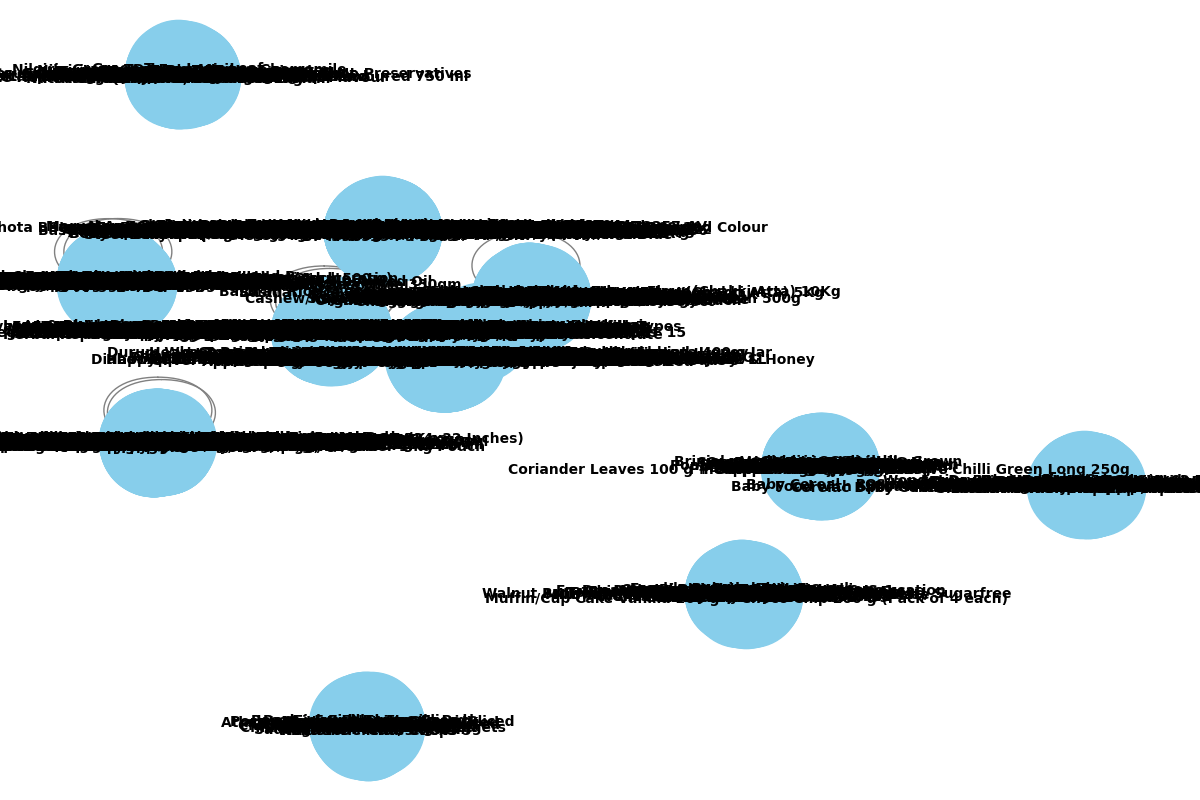
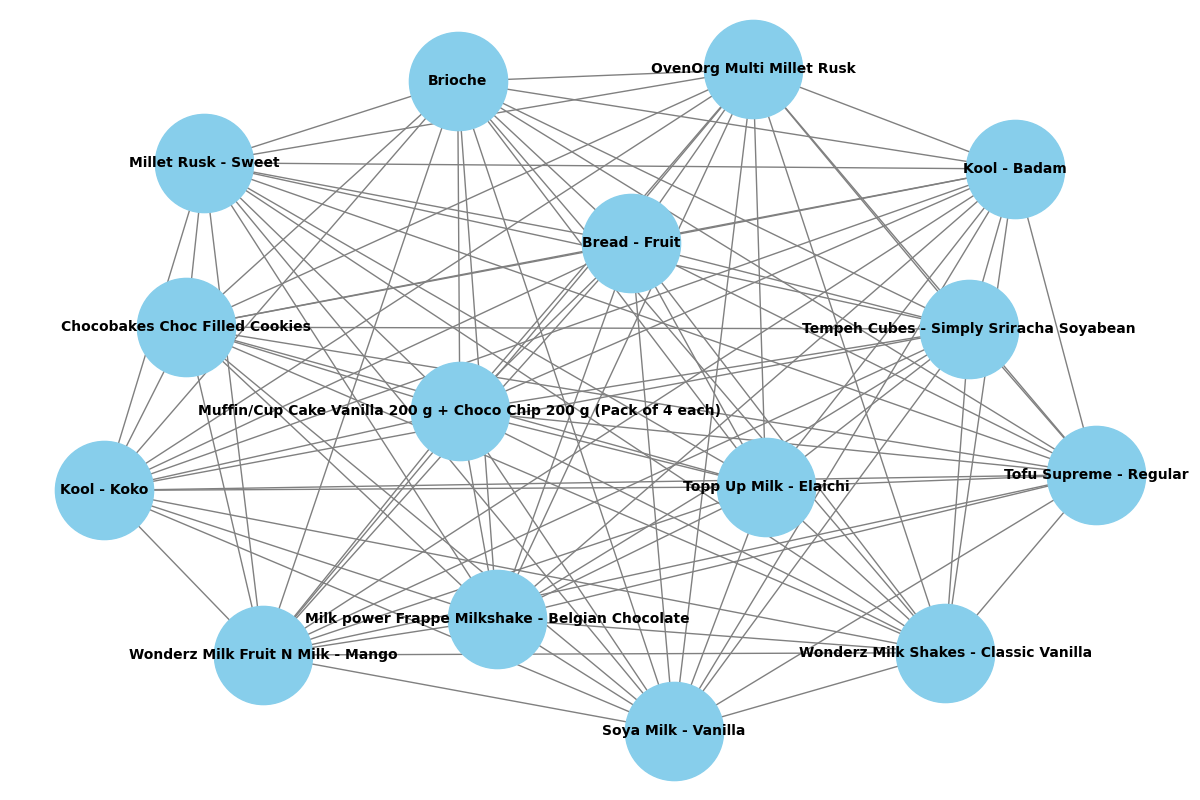
feat: now only the 15 closest nodes are visible

diff --git a/app.py b/app.py
@@ -14,7 +14,7 @@ with open('Products.txt', 'r', encoding='utf-8') as archivo:
             "category": fila['category'],
             "rating": float(fila['rating'])
         })
-def graficar_grafo(grafo, filename='static/graph.png'):
+def graficar_grafo(grafo, producto_ingresado, filename='static/graph.png'):
     G = nx.Graph()
 
     for categoria, productos in grafo.items():
@@ -24,9 +24,16 @@ def graficar_grafo(grafo, filename='static/graph.png'):
                 if producto != otro_producto:
                     G.add_edge(producto['nombre'], otro_producto['nombre'])
 
-    pos = nx.spring_layout(G)
+    # Calculate distances from the input product
+    distances = nx.single_source_shortest_path_length(G, producto_ingresado['nombre'])
+    closest_nodes = sorted(distances, key=distances.get)[:15]
+
+    # Create a subgraph with the closest nodes
+    subgraph = G.subgraph(closest_nodes)
+
+    pos = nx.spring_layout(subgraph)
     plt.figure(figsize=(12, 8))
-    nx.draw(G, pos, with_labels=True, node_size=5000, node_color='skyblue', font_size=10, font_weight='bold', edge_color='gray')
+    nx.draw(subgraph, pos, with_labels=True, node_size=5000, node_color='skyblue', font_size=10, font_weight='bold', edge_color='gray')
     plt.title('Product Graph')
     plt.savefig(filename)
     plt.close()
@@ -46,7 +53,7 @@ def sugerir_productos_dfs(producto_nombre, num_recomendaciones=5):
 
     # Graficar el grafo y guardar la imagen
     graph_image_path = 'static/graph.png'
-    graficar_grafo(grafo, graph_image_path)
+    graficar_grafo(grafo, producto_ingresado, graph_image_path)
 
     # DFS para buscar productos relacionados
     stack = grafo[producto_ingresado['category']]  # Empezamos con los productos de la misma categoría
